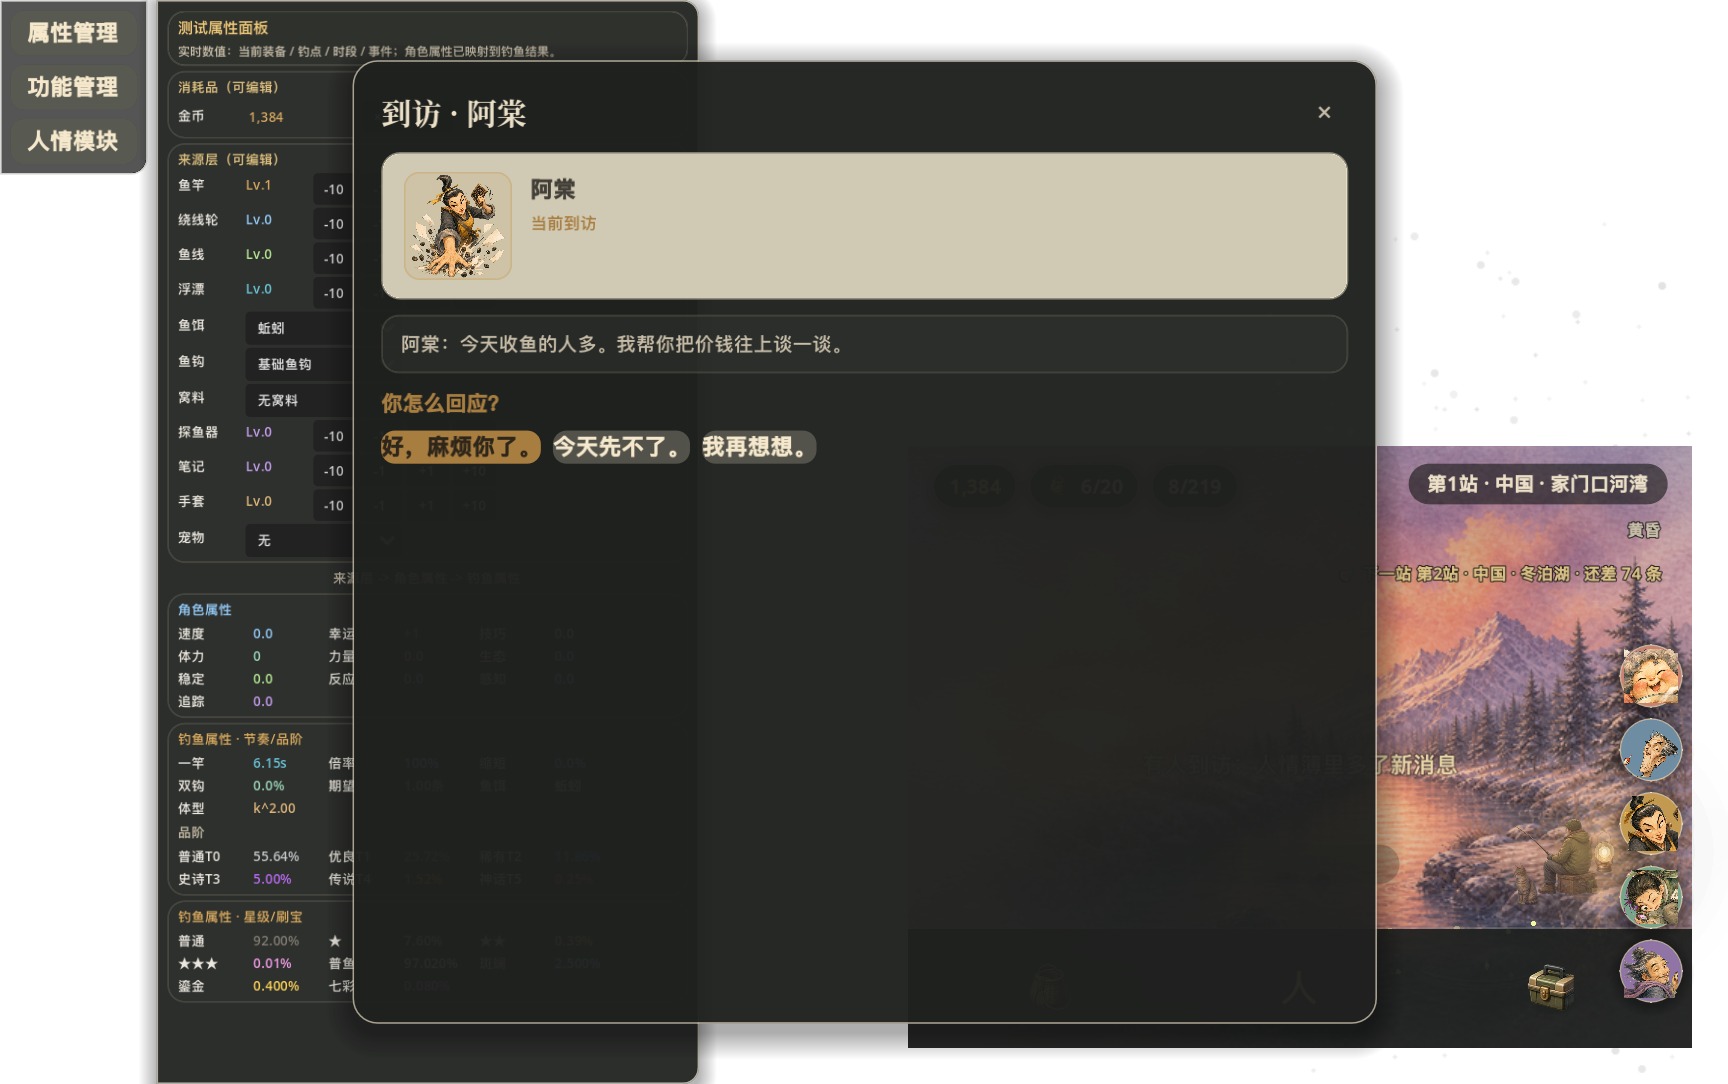
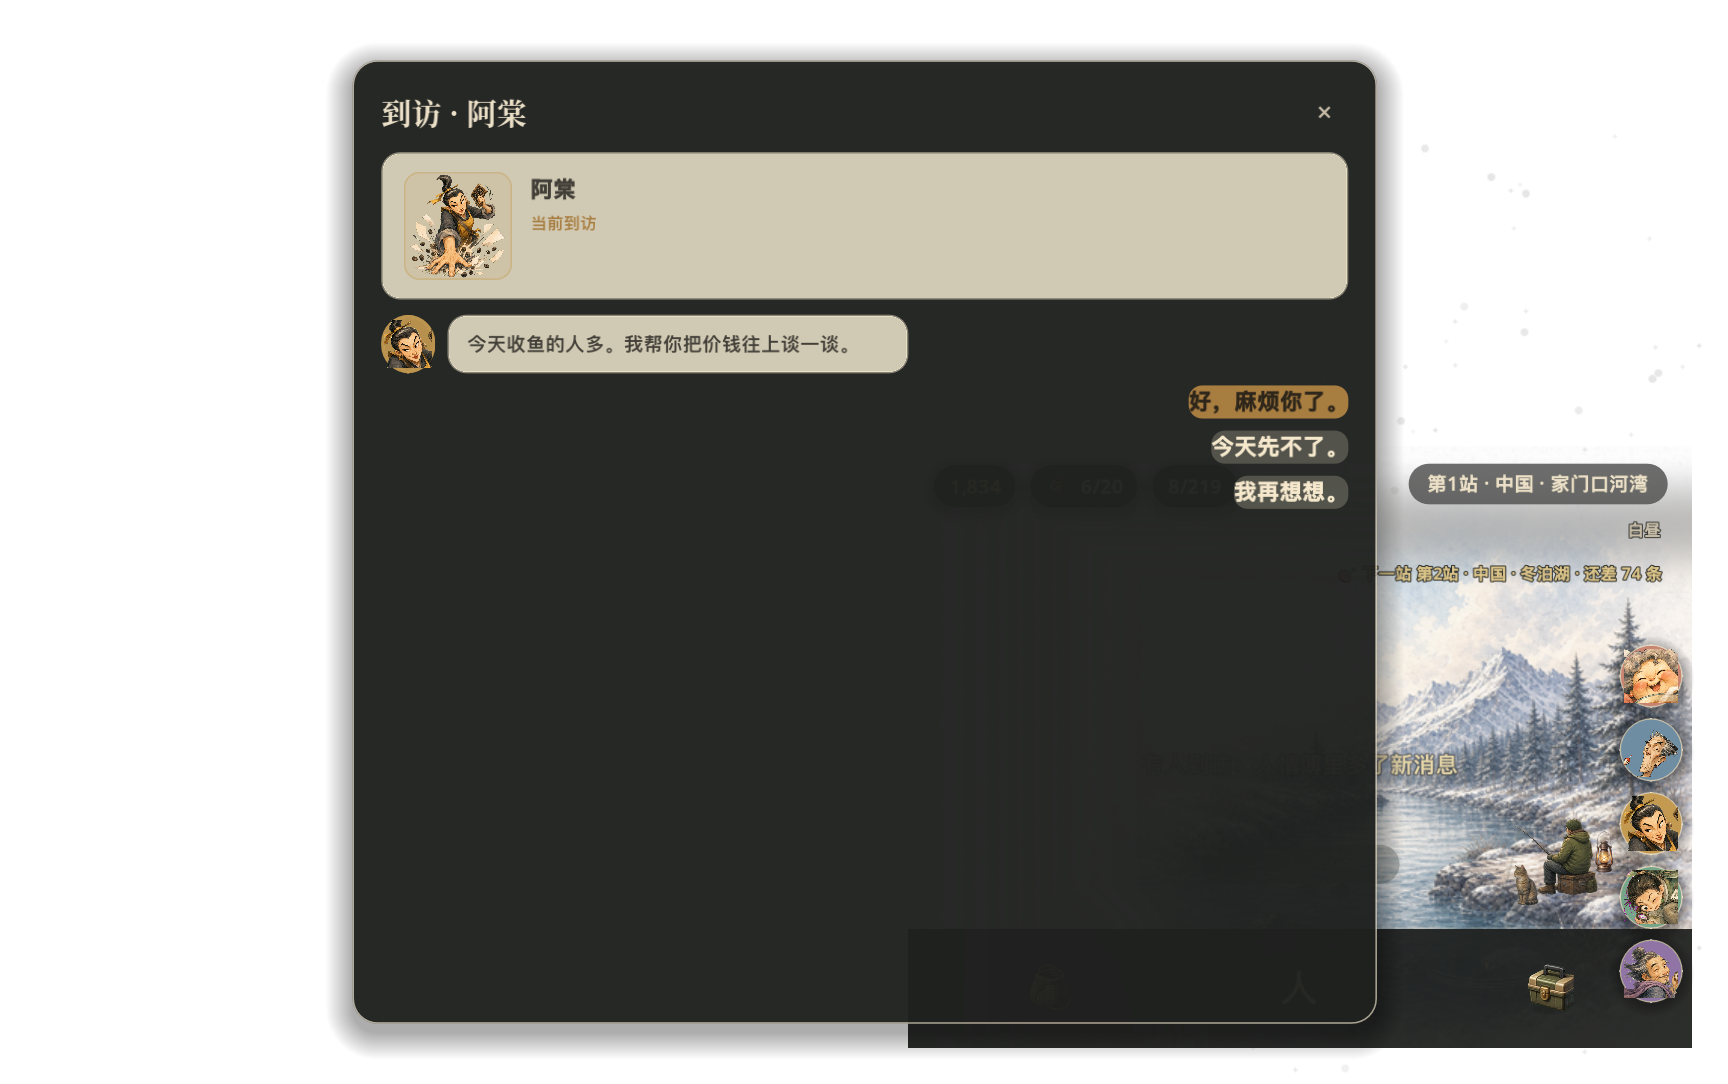
补齐到访气泡截图与文档
记录会话隔离和逐行聊天布局的最终行为。

Changed region(s): [[0.0, 0.0, 0.5312, 1.0], [0.6875, 0.3349, 1.0, 0.8828]]

diff --git a/ROADMAP.md b/ROADMAP.md
@@ -52,7 +52,7 @@
 - [x] **角色属性二级映射接入结算**(旧装备仍是主轴;属性软上限修正周期/品阶/星级/变体/双钩/体型,开发面板同步展示最终指标)✅ 2026-07-08
 - [x] **装备/金币大数化**(经济量改 double 浮点大数,极端值钳制到 `1e300`;装备页/HUD 改 `K/M/B/T/Qa/Qi...` 短格式,不再用中文万/亿)✅ 2026-07-09
 - [x] **底部系统渐进开放**(开局只显示设置;3 条鱼开放鱼篓;卖鱼 300 开装备;装备消费 10K 开任务;默认钓点半图鉴开图鉴;第二钓点条件开地图;极品鱼开鱼缸;测试台可手动开关功能;存档 **v20**)✅ 2026-07-09
-- [x] **河湾人情簿（分阶段首版）**：五位 NPC 配置、独立七级好感存档、人情入口、总览、挂机到访队列、专属水彩头像／人情簿缩略图／到访对话头像、到访送礼、10 分钟单槽 Buff、偏好鱼委托、跨地点终章大单与调试面板均已接入（v21）；v22 改为每位 NPC 独立 3 小时排程；v23 补齐五条一次性终章永久标记；v24 加入初识到旧交共 30 条一次性人物事件、跨级顺序补读与分级事件池，普通委托改为只发金币、仅成功送礼提升好感；到访已重构为聊天记录、当前抉择与选择后反馈，NPC 全程第一人称且玩家回复简短口语化，右侧圆形入口使用逐人头部裁切；长期资料归人情簿，偏好按好感三阶段揭示；头像或底栏 icon 缺失时均有文字占位，不再显示空白；后续继续扩写人物文本与三钓点联动效果。
+- [x] **河湾人情簿（分阶段首版）**：五位 NPC 配置、独立七级好感存档、人情入口、总览、挂机到访队列、专属水彩头像／人情簿缩略图／到访对话头像、到访送礼、10 分钟单槽 Buff、偏好鱼委托、跨地点终章大单与调试面板均已接入（v21）；v22 改为每位 NPC 独立 3 小时排程；v23 补齐五条一次性终章永久标记；v24 加入初识到旧交共 30 条一次性人物事件、跨级顺序补读与分级事件池，普通委托改为只发金币、仅成功送礼提升好感；到访已重构为聊天记录、当前抉择与选择后反馈，NPC 全程第一人称且玩家回复简短口语化，右侧圆形入口使用逐人头部裁切；左右消息各自占满独立整行，长文撑高本行后再排列下一条，反馈不会覆盖已发送回复；抉择、选鱼、回复与反馈统一收进单次到访临时会话，关闭或切换到访即清理，杜绝跨人物和跨到访泄漏；长期资料归人情簿，偏好按好感三阶段揭示；头像或底栏 icon 缺失时均有文字占位，不再显示空白；后续继续扩写人物文本与三钓点联动效果。
 - [ ] **219 鱼美术补齐**(现 99 条有专属图标 → 缺 120;缺图自动回退品阶通用图标不崩)
 - [ ] **7 个新钓点背景图**(数据已配,缺干净底图;**其中雪线溪谷 mountain_stream / 下山进城 urban_pond 在退款窗口内可达,列入上架 DoD 必须有图**)
 - [x] **README 文案同步真实数字**(鱼 106→219、存档 v11→v12;钓点守 3 不虚报)✅ 2026-06-23

diff --git a/README.md b/README.md
@@ -89,7 +89,7 @@ godot --headless -s tools/balance_probe.gd
 左侧开发入口可直接打开属性面板、功能管理与人情模块；属性面板可编辑金币（翻倍/减半）、装备来源层与宠物状态；测试台可强制昼夜时段、钓鱼提速（×3/×10/即时）、改金币、+1/拉满装备与背包、绕线轮升降/设级、给指定鱼（鱼种×星级×变体）、
 样本包/清空鱼篓、解锁全部钓点/点亮全图鉴、召唤鱼贩/重置订单/充能专注、立即触发随机事件；人情模块可召唤指定 NPC 的闲谈/委托/Buff/终章事件、打开人情簿或到访面板、mock 偏好鱼与终章鱼、调整好感等级、重置或完成终章。
 
-河湾五位 NPC 已使用专属水彩人物图：右侧到访栏从原图单独裁切头部并显示为主题色圆形头像，人情簿显示动作缩略图，到访面板使用紧凑对话头像；资源缺失时安全回退到带姓名首字的主题色占位，底部人情菜单缺少专属 icon 时显示「人」字占位，不留空白入口。到访页采用聊天记录式剧情与当前抉择，NPC 剧情、闲谈和结算均以第一人称发言，玩家按钮使用简短的真实回复，选择后停留显示 NPC 反馈；好感、近况、终章和偏好资料集中在人情簿，偏好按好感 0–1／2–3／4–6 三阶段显示未知／模糊线索／完整规则。
+河湾五位 NPC 已使用专属水彩人物图：右侧到访栏从原图单独裁切头部并显示为主题色圆形头像，人情簿显示动作缩略图，到访面板使用紧凑对话头像；资源缺失时安全回退到带姓名首字的主题色占位，底部人情菜单缺少专属 icon 时显示「人」字占位，不留空白入口。到访页采用聊天记录式剧情与当前抉择，NPC 剧情、闲谈和结算均以第一人称发言，玩家按钮使用简短的真实回复；NPC 与玩家消息分别占有独立的左／右整行气泡，长文自动撑高本行，选择后反馈从下一行开始。一次到访的抉择、选鱼、玩家回复和反馈由同一份到访期临时会话承接，关闭或切换到访即清理，避免跨人物、跨到访串线；好感、近况、终章和偏好资料集中在人情簿，偏好按好感 0–1／2–3／4–6 三阶段显示未知／模糊线索／完整规则。
 
 **仅本会话生效、不写档**：进入即冻结磁盘存档，退出（切回游玩模式）从磁盘重载正式档、丢弃全部测试改动；
 默认重启回到正式档；如需启动即进入测试，可在 `main.tscn` 的 `Main` 节点 Inspector 勾选 `test_mode`。正式存档永不被测试数据污染，HUD 右上常驻「🧪测试」角标提示当前在测试模式。

diff --git a/BACKLOG.md b/BACKLOG.md
@@ -7,6 +7,7 @@
 
 ---
 
+- **2026-07-21** 到访聊天采用左右双方各自占有整行的气泡布局，并把抉择、选鱼、玩家回复与 NPC 反馈统一收进一次到访范围的临时会话；关闭面板或切换到访时整份清理。**为什么**：整行所有权让长短消息都按自身高度自然排布，反馈只能从已发送回复的下一行开始，避免左右气泡在 Y 轴重叠；统一生命周期则避免旧回复、提示或反馈泄漏到下一位 NPC 或下一次到访。
 - **2026-07-20** 到访入口的五张圆形头像改为按人物配置头部裁切，不再把整张动作立绘压进小圆框；到访剧情、闲谈、帮忙和结算反馈统一改成 NPC 第一人称，玩家抉择改为“好，我记住了。”“给你看看。”等短句。**为什么**：小圆框应优先识别人脸，到访页则应像双方正在真实交谈，而不是事件标题、旁白和系统操作按钮。
 ## 🧊 想法冰箱(Icebox —— 想到就记,别丢,也别马上做)
 
